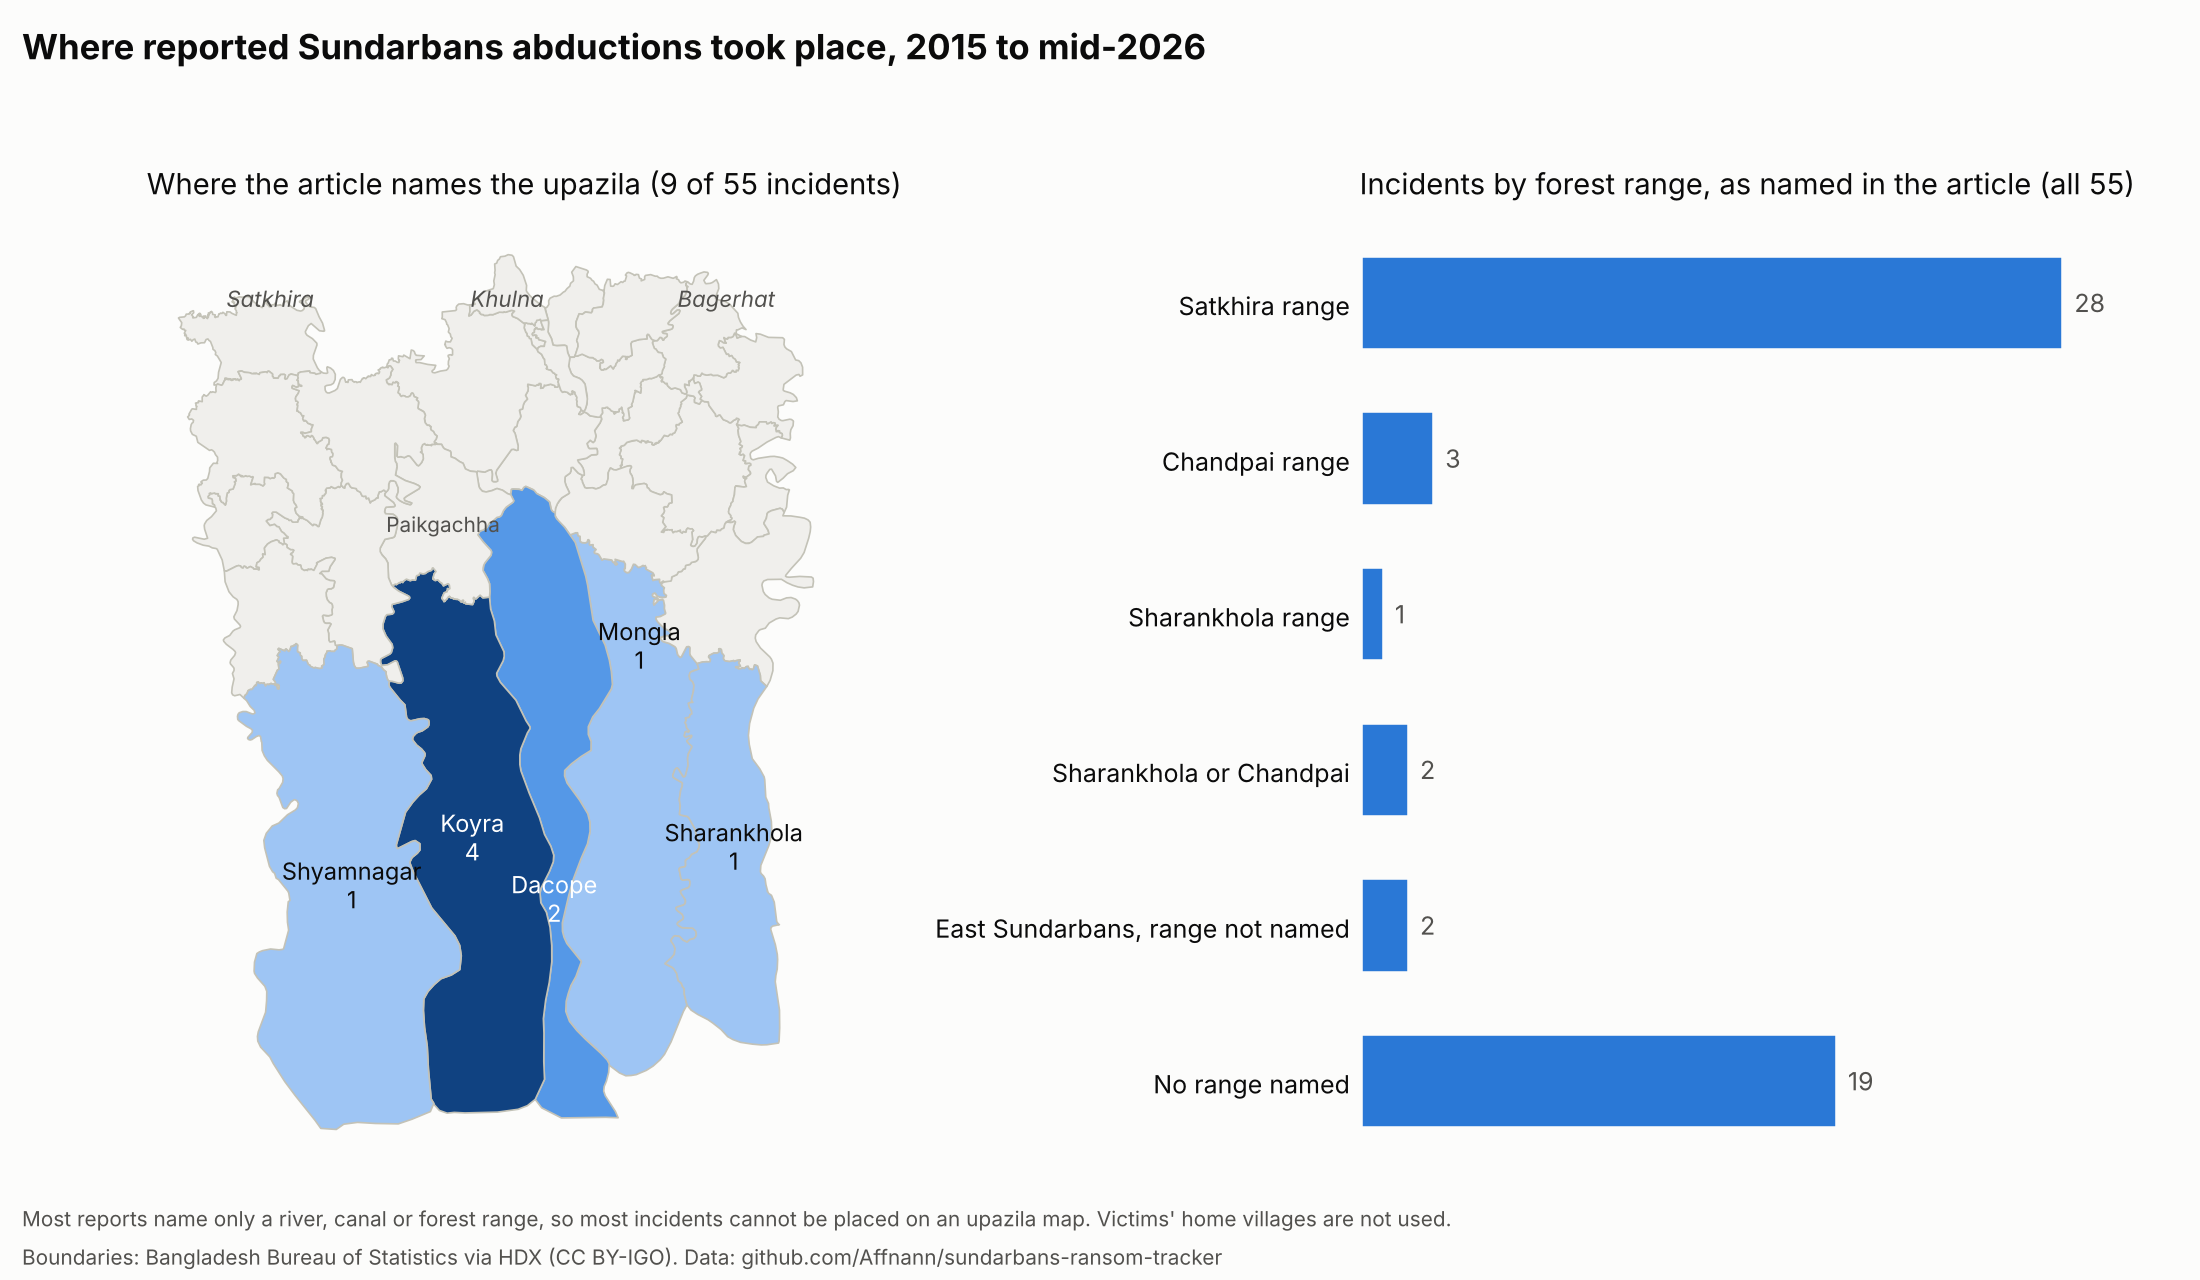
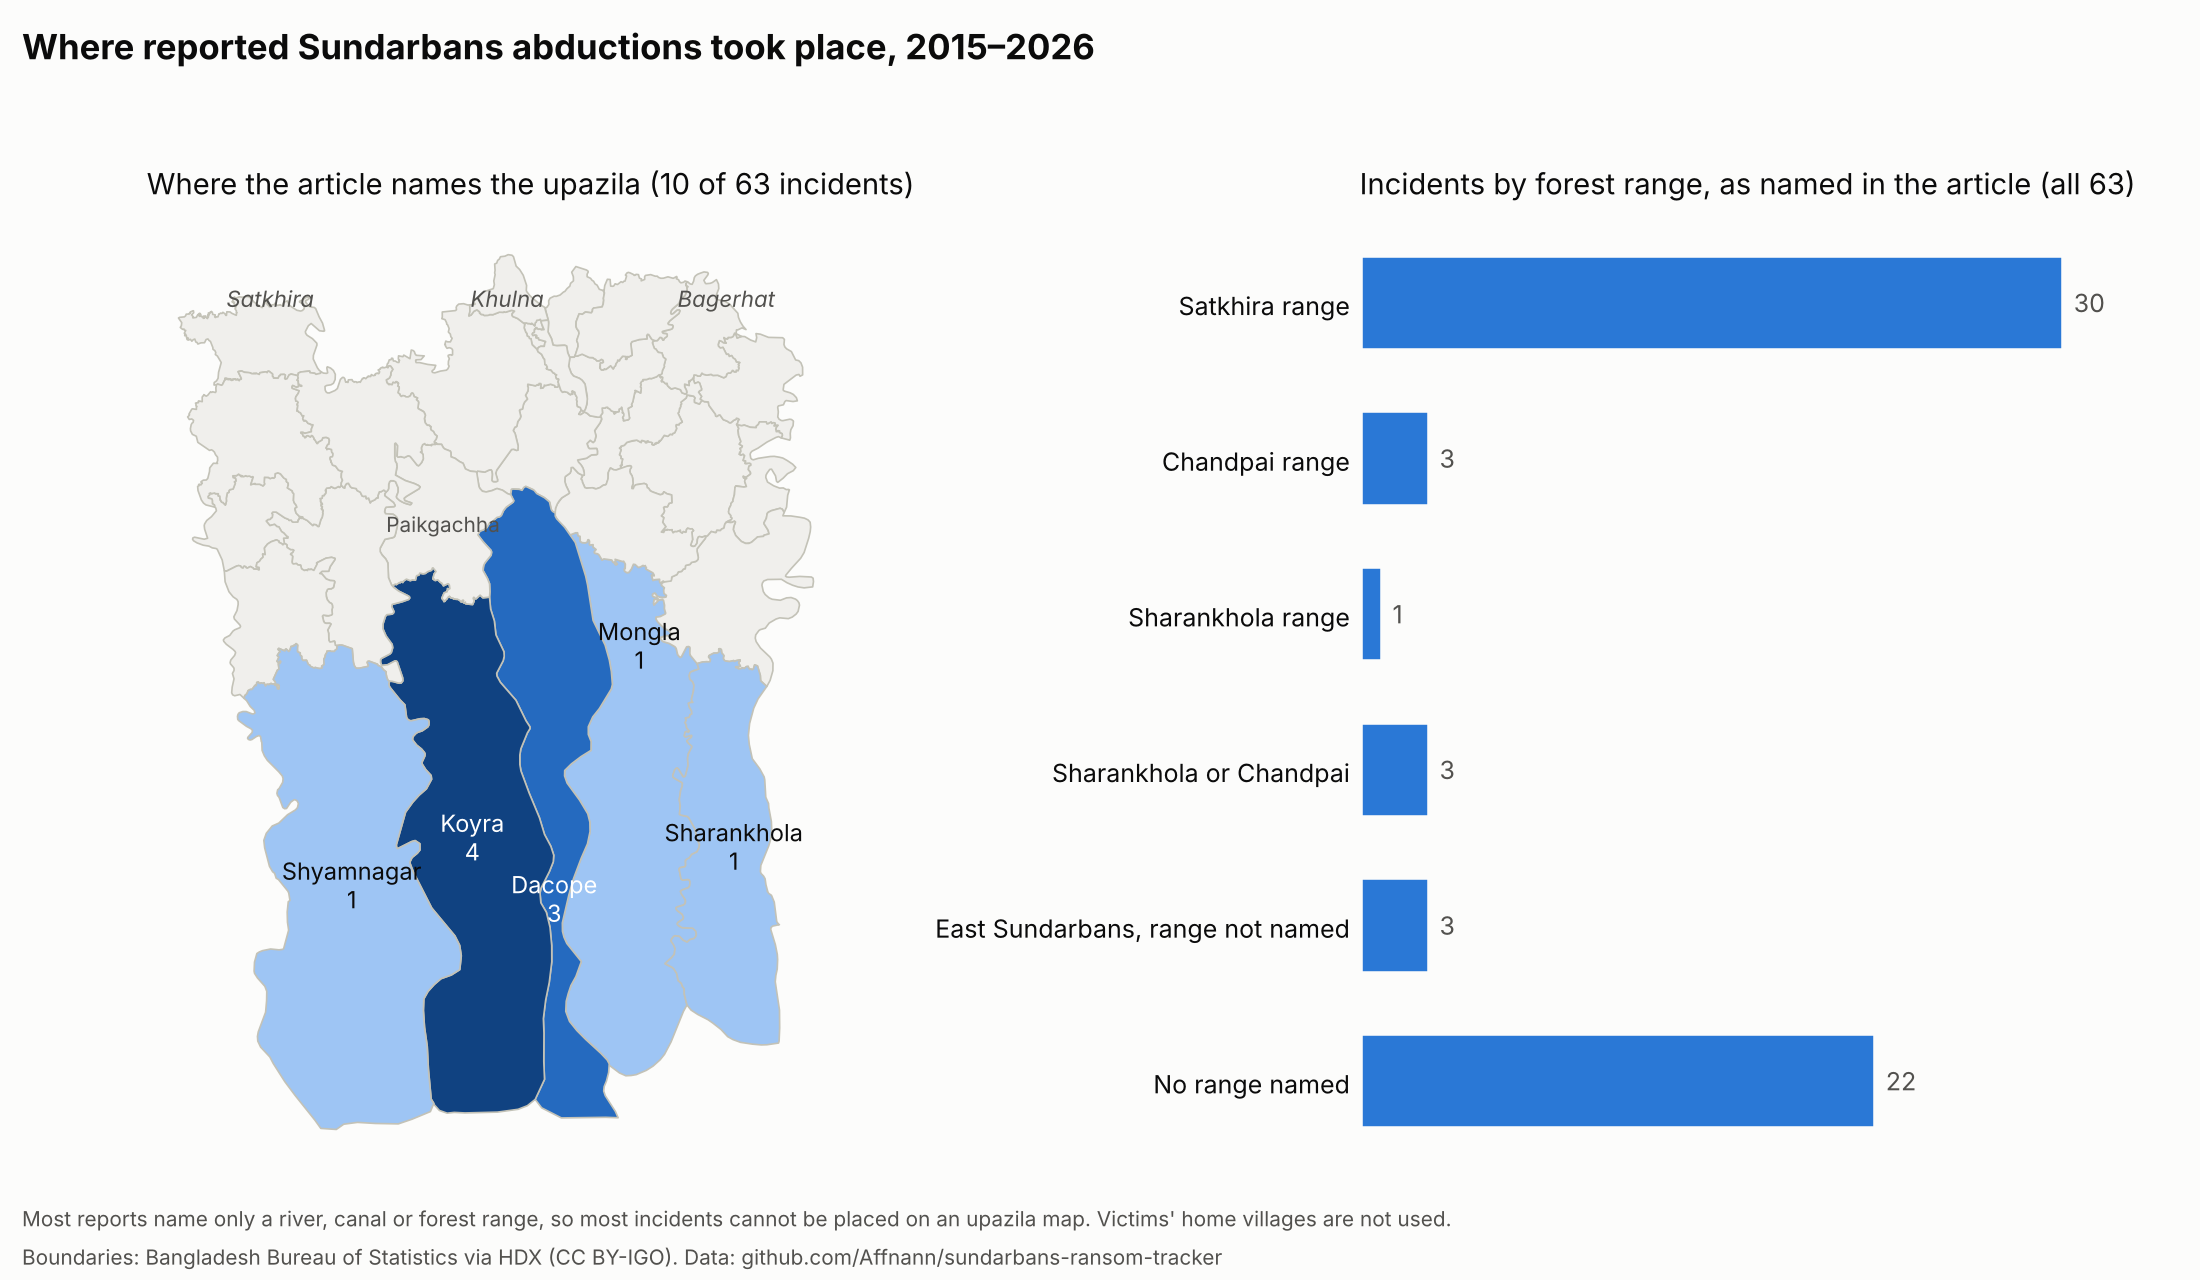
Add Samakal and Kaler Kantho reports through October 2026

diff --git a/code/01_yearly_chart.py b/code/01_yearly_chart.py
@@ -9,7 +9,7 @@ from matplotlib.patches import Patch
 
 SURFACE, INK, INK2, GRID = "#fcfcfb", "#0b0b0b", "#52514e", "#e6e5e1"
 BAR, BAR_PARTIAL = "#2a78d6", "#86b6ef"
-PARTIAL_YEAR, PARTIAL_LABEL = 2026, "2026 (Jan–Jul only)"
+PARTIAL_YEAR, PARTIAL_LABEL = 2026, "2026 (to 27 October)"
 
 d = pd.read_csv("data/clean/incidents.csv", dtype=str)
 d["year"] = d["event_date"].str[:4].astype(int)
@@ -38,6 +38,7 @@ for ax, (col, title) in zip(axes, panels):
 top = axes[0]
 ymax = top.get_ylim()[1]
 top.text(2017.2, ymax * 0.93, "Surrender of armed groups\n2016 – Nov 2018", ha="center", va="top", fontsize=8.5, color=INK2)
+top.text(2025.55, ymax * 0.86, "New surrenders\nof armed groups,\nJul–Sep 2026", ha="right", va="top", fontsize=8.5, color=INK2)
 top.annotate("Change of government,\nAug 2024", xy=(2024, g.loc[2024, "incidents"] + ymax * 0.09),
              xytext=(2022.3, ymax * 0.62), ha="center", va="center", fontsize=8.5, color=INK2,
              arrowprops=dict(arrowstyle="-", color=INK2, linewidth=0.8))
@@ -49,7 +50,7 @@ axes[1].legend(handles=[Patch(color=BAR, label="Full year"), Patch(color=BAR_PAR
 fig.suptitle("Kidnapping for ransom in the Bangladesh Sundarbans, as reported in the press",
              x=0.01, ha="left", fontsize=12.5, color=INK, fontweight="bold")
 fig.text(0.01, 0.012, "Counts are reported incidents, not all incidents; a rise can reflect more reporting.\n"
-         "Sources: Prothom Alo, The Daily Star, bdnews24. Data: github.com/Affnann/sundarbans-ransom-tracker",
+         "Sources: Prothom Alo, Kaler Kantho, Samakal, The Daily Star, bdnews24. Data: github.com/Affnann/sundarbans-ransom-tracker",
          fontsize=7.5, color=INK2, ha="left", linespacing=1.5)
 fig.tight_layout(rect=(0, 0.055, 1, 0.965))
 fig.savefig("figures/incidents_by_year.png", dpi=200, facecolor=SURFACE)

diff --git a/code/02_location_map.py b/code/02_location_map.py
@@ -73,7 +73,7 @@ for s in bx.spines.values():
 bx.tick_params(length=0)
 bx.set_title(f"Incidents by forest range, as named in the article (all {len(d)})", loc="left", fontsize=10.5, color=INK)
 
-fig.suptitle("Where reported Sundarbans abductions took place, 2015 to mid-2026", x=0.01, ha="left",
+fig.suptitle("Where reported Sundarbans abductions took place, 2015–2026", x=0.01, ha="left",
              fontsize=12.5, fontweight="bold", color=INK)
 fig.text(0.01, 0.012,
          "Most reports name only a river, canal or forest range, so most incidents cannot be placed on an upazila map. "

diff --git a/data/README.md b/data/README.md
@@ -8,10 +8,10 @@ Used only to code incidents. Article text is not stored or published; each row l
 | Source | Language | Used for | Accessed |
 |---|---|---|---|
 | Prothom Alo (prothomalo.com) | Bangla | main incident source | 2026-10-29 |
-| Samakal (samakal.com) | Bangla | incident source | — |
-| Kaler Kantho (kalerkantho.com) | Bangla | incident source | — |
+| Samakal (samakal.com) | Bangla | incident source | 2026-10-29 |
+| Kaler Kantho (kalerkantho.com) | Bangla | incident source | 2026-10-29 |
 | The Daily Star (thedailystar.net) | English | incident source | 2026-10-29 |
-| Dhaka Tribune (dhakatribune.com) | English | incident source | — |
+| Dhaka Tribune (dhakatribune.com) | English | incident source | not used: pages failed to load |
 | bdnews24.com (English and Bangla editions) | English, Bangla | incident source | 2026-10-29 |
 
 ## Official context
@@ -34,7 +34,7 @@ OpenStreetMap was checked for river and canal names (query of 2026-10-29). It na
 - `data/raw/held_aside.csv`: reports that could not be dated, placed or checked well enough to include.
 
 ## How incidents were found
-Web searches of each outlet, plus Prothom Alo's own site search run year by year from 2015 with several Bangla search terms, keeping headlines that mention the Sundarbans together with abduction, hostage or ransom. Each article was then read in full.
+Web searches of each outlet, plus Prothom Alo's own site search run year by year from 2015 with several Bangla search terms, keeping headlines that mention the Sundarbans together with abduction, hostage or ransom. Each article was then read in full. Samakal and Kaler Kantho were searched by web search and read in a browser. No new incidents for 2019 to 2023 were found in either.
 
 ## Key columns
 - `date_precision`: `exact`, `derived_from_weekday` (the article says e.g. 'last Friday'; the date is worked out from the publication date), `approximate`, `month`, `year_inferred`.
@@ -45,7 +45,7 @@ Web searches of each outlet, plus Prothom Alo's own site search run year by year
 - `other_urls`: further reports of the same incident.
 
 ## Coverage
-Incidents from 1 January 2015 to the present.
+Incidents from 1 January 2015 to 27 October 2026 (the last report found on 2026-10-29).
 
 ## Licenses
 - The coded dataset in `data/clean/` is released under CC BY 4.0.

diff --git a/README.md b/README.md
@@ -4,11 +4,11 @@ A hand-coded record of kidnapping-for-ransom incidents in the Bangladesh Sundarb
 
 Fishers, crab collectors, honey gatherers and woodcutters who work in the Sundarbans forest have long been abducted by armed groups and held until their families pay. No official dataset of these incidents exists. This project builds one from news coverage, mostly in Bangla, so that the size, prices and timing of the ransom trade can be measured, including before and after the 2016–2018 surrender campaign.
 
-**Status:** 55 incidents (February 2015 to July 2026) from Prothom Alo, The Daily Star and bdnews24, plus 8 records of protection payments.
+**Status:** 63 incidents (February 2015 to 27 October 2026) from Prothom Alo, Kaler Kantho, Samakal, The Daily Star and bdnews24, plus 9 records of protection payments.
 
 ![Reported incidents and people taken, by year](figures/incidents_by_year.png)
 
-The chart counts **reported** incidents. Reporting changed over time: from 2025 many reports come from Coast Guard press releases about its operations, so part of the recent rise may be more reporting, not only more abductions.
+The chart counts **reported** incidents. Reporting changed over time: from 2025 many reports come from Coast Guard press releases about its operations, so part of the recent rise may be more reporting, not only more abductions. A new wave of surrenders by armed groups began in July 2026, but abductions were still being reported in September and October.
 
 ![Where reported abductions took place](figures/location_map.png)
 
